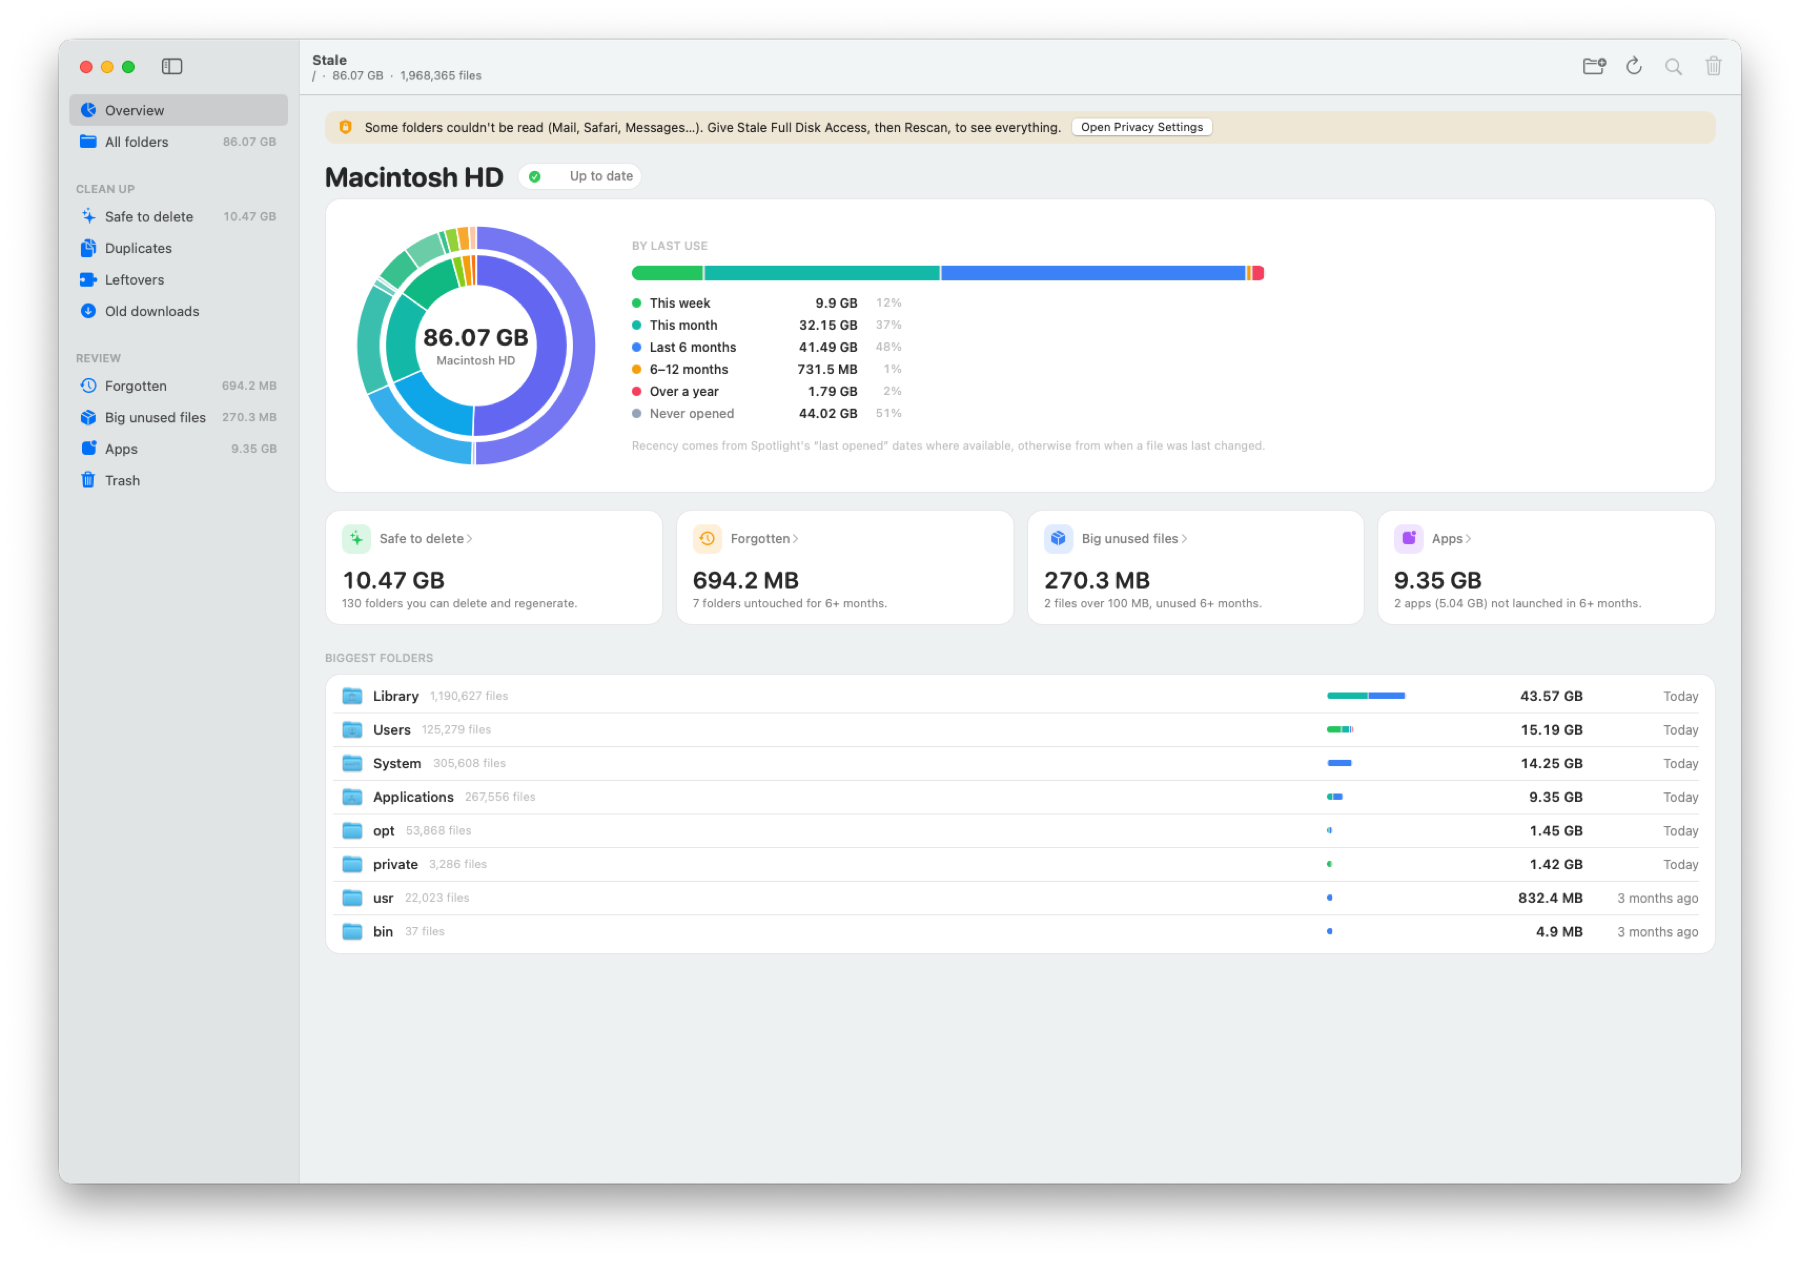
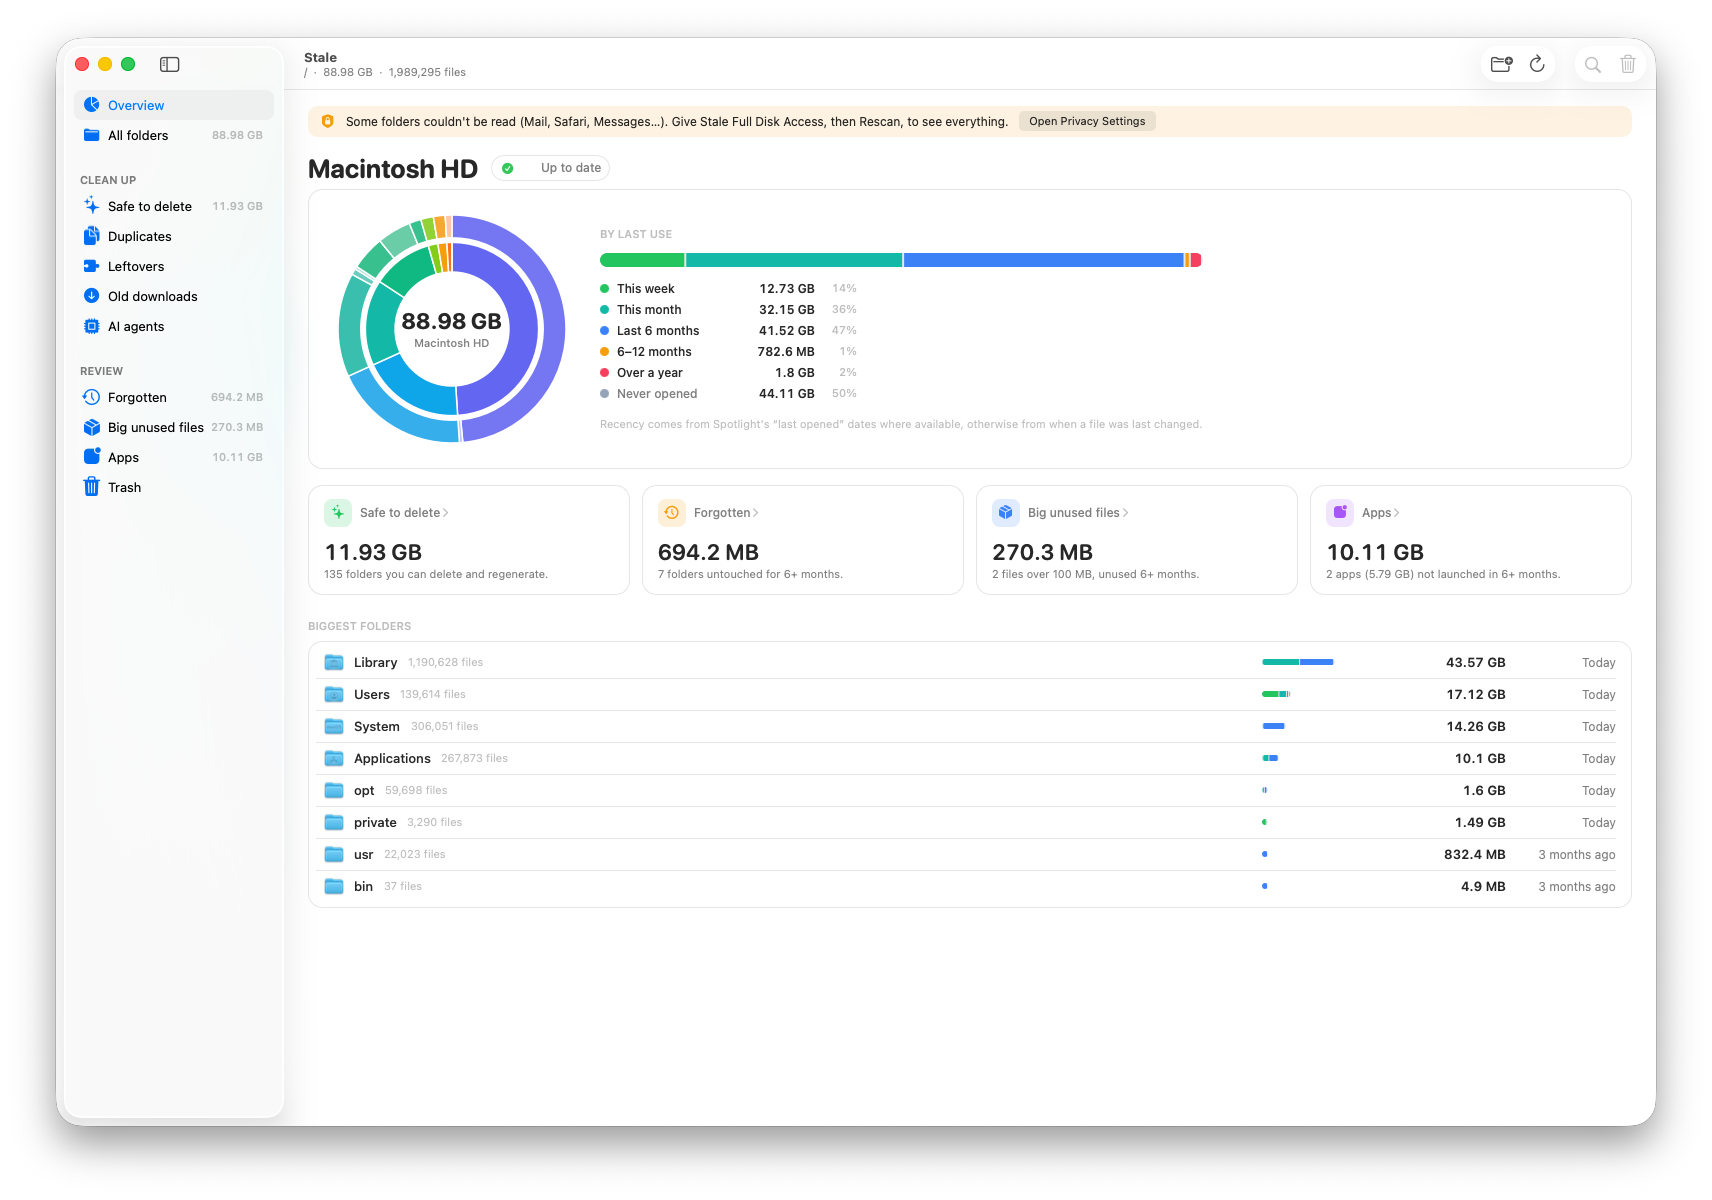
Update screenshot to show the AI agents section

diff --git a/site/public/index.html b/site/public/index.html
@@ -75,7 +75,7 @@
     </div>
   </header>
 
-  <div class="shot"><img src="/screenshot.png" alt="Stale showing a Mac's disk usage by last use" width="1800" height="1261"></div>
+  <div class="shot"><img src="/screenshot.png" alt="Stale showing a Mac's disk usage by last use" width="1712" height="1200"></div>
 
   <section class="features">
     <div class="head">
